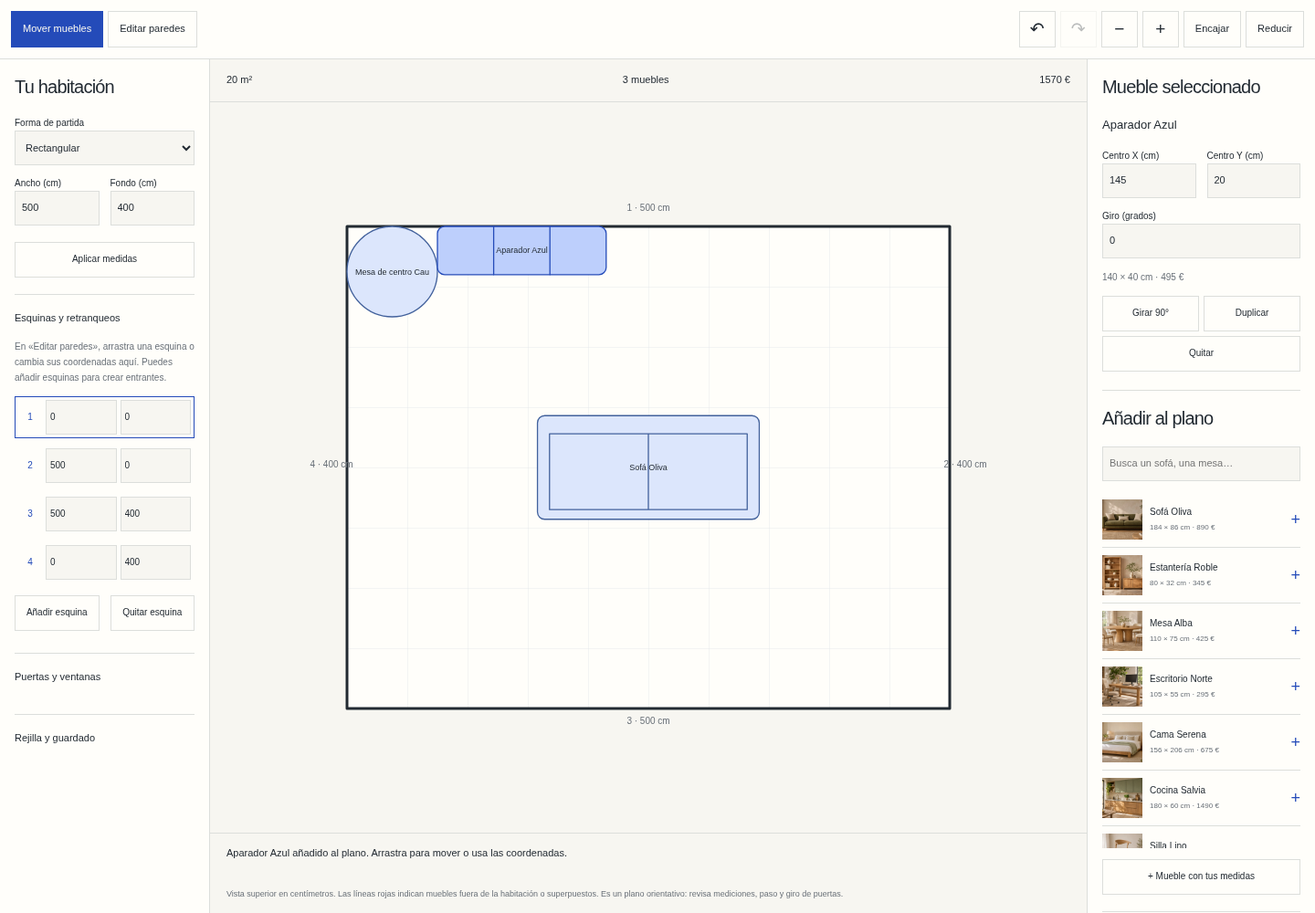
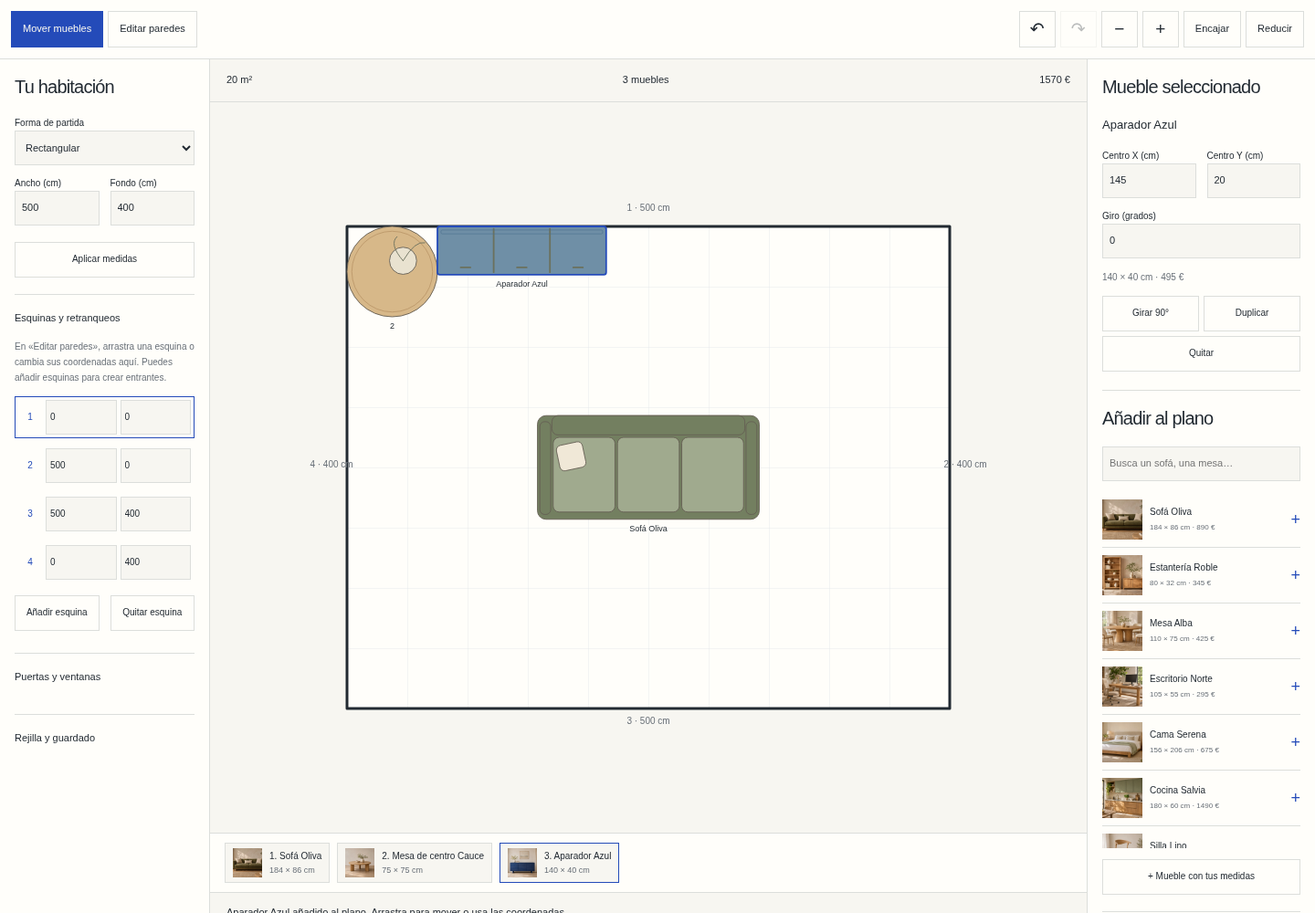
Present corporate farm experiences and updated Tinyspace planner

diff --git a/proyectos/estanque-azul.html b/proyectos/estanque-azul.html
@@ -1,27 +1,27 @@
 <!doctype html>
 <html lang="es">
-<head><meta charset="utf-8"><meta name="viewport" content="width=device-width, initial-scale=1"><meta name="theme-color" content="#f5f6f1"><meta name="color-scheme" content="light dark"><title>El Estanque Azul · Rediseño web | NMC Labs</title><link rel="icon" href="favicon2.png"><link rel="stylesheet" href="../estilos.css"><script src="../portfolio.js" defer></script>  <meta name="description" content="El rediseño de El Estanque Azul: de una primera web de HTML y CSS en 2021 a una granja ficticia con diseño adaptable y planificación de visitas en 2026.">
+<head><meta charset="utf-8"><meta name="viewport" content="width=device-width, initial-scale=1"><meta name="theme-color" content="#f5f6f1"><meta name="color-scheme" content="light dark"><title>El Estanque Azul · Rediseño web | NMC Labs</title><link rel="icon" href="favicon2.png"><link rel="stylesheet" href="../estilos.css"><script src="../portfolio.js" defer></script>  <meta name="description" content="El rediseño de El Estanque Azul: de una primera web de HTML y CSS en 2021 a una experiencia para configurar jornadas de empresa, actividades y presupuesto demo en una granja en 2026.">
   <meta name="robots" content="index, follow, max-image-preview:large">
   <meta name="twitter:card" content="summary_large_image">
   <meta name="twitter:title" content="El Estanque Azul · Rediseño web | NMC Labs">
-  <meta name="twitter:description" content="El rediseño de El Estanque Azul: de una primera web de HTML y CSS en 2021 a una granja ficticia con diseño adaptable y planificación de visitas en 2026.">
+  <meta name="twitter:description" content="El rediseño de El Estanque Azul: de una primera web de HTML y CSS en 2021 a una experiencia para configurar jornadas de empresa, actividades y presupuesto demo en una granja en 2026.">
   <meta name="twitter:image" content="https://nmclabs.dev/proyectos/estanque-azul-cover.webp">
   <meta property="og:type" content="website">
   <meta property="og:locale" content="es_ES">
   <meta property="og:site_name" content="NMC Labs">
   <meta property="og:title" content="El Estanque Azul · Rediseño web | NMC Labs">
-  <meta property="og:description" content="El rediseño de El Estanque Azul: de una primera web de HTML y CSS en 2021 a una granja ficticia con diseño adaptable y planificación de visitas en 2026.">
+  <meta property="og:description" content="El rediseño de El Estanque Azul: de una primera web de HTML y CSS en 2021 a una experiencia para configurar jornadas de empresa, actividades y presupuesto demo en una granja en 2026.">
   <meta property="og:url" content="https://nmclabs.dev/proyectos/estanque-azul">
   <meta property="og:image" content="https://nmclabs.dev/proyectos/estanque-azul-cover.webp">
   <meta property="og:image:alt" content="Presentación de NMC Labs">
   <link rel="canonical" href="https://nmclabs.dev/proyectos/estanque-azul">
-  <script id="site-schema" type="application/ld+json">{"@context":"https://schema.org","@type":"CreativeWork","name":"El Estanque Azul: rediseño web","url":"https://nmclabs.dev/proyectos/estanque-azul","description":"El rediseño de El Estanque Azul: de una primera web de HTML y CSS en 2021 a una granja ficticia con diseño adaptable y planificación de visitas en 2026.","inLanguage":"es","creator":{"@id":"https://nmclabs.dev/#organization"}}</script>
+  <script id="site-schema" type="application/ld+json">{"@context":"https://schema.org","@type":"CreativeWork","name":"El Estanque Azul: rediseño web","url":"https://nmclabs.dev/proyectos/estanque-azul","description":"El rediseño de El Estanque Azul: de una primera web de HTML y CSS en 2021 a una experiencia para configurar jornadas de empresa, actividades y presupuesto demo en una granja en 2026.","inLanguage":"es","creator":{"@id":"https://nmclabs.dev/#organization"}}</script>
 </head>
 <body id="inicio"><a class="skip-link" href="#contenido">Saltar al contenido</a><header class="header wrap"><a class="brand" href="../index.html" aria-label="NMC Labs, volver a los proyectos"><img src="favicon2.png" width="38" height="38" alt=""><span>NMC Labs<span class="brand-dot">.</span></span></a><nav aria-label="Navegación principal"><a href="../index.html#proyectos">Proyectos</a><a href="../index.html#sobre-mi">Sobre mí</a><a href="../index.html#contacto">Contacto ↗</a></nav></header>
-<main id="contenido" class="case-main wrap"><p class="eyebrow">EL ESTANQUE AZUL / 2021 → 2026</p><h1>Mi primera web.<br>Una <em>nueva mirada.</em></h1><p class="case-lead">Una granja ficticia fue mi punto de partida para aprender HTML y CSS. En esta nueva versión revisito el proyecto para mejorar cómo se presenta la granja y cómo se imagina una visita.</p><dl class="case-meta"><div><dt>ORIGEN</dt><dd>Primera evaluación de ASIR · 2021</dd></div><div><dt>REINTERPRETACIÓN</dt><dd>NMC Labs · 2026</dd></div><div><dt>MI TRABAJO</dt><dd>Concepto, diseño y desarrollo</dd></div><div><dt>TECNOLOGÍAS</dt><dd>HTML · CSS · JavaScript</dd></div></dl>
+<main id="contenido" class="case-main wrap"><p class="eyebrow">EL ESTANQUE AZUL / 2021 → 2026</p><h1>Mi primera web.<br>Una <em>nueva mirada.</em></h1><p class="case-lead">Una granja ficticia fue mi punto de partida para aprender HTML y CSS. En esta nueva versión revisito el proyecto como una granja para jornadas de equipo, con propuestas propias para colegios y familias.</p><dl class="case-meta"><div><dt>ORIGEN</dt><dd>Primera evaluación de ASIR · 2021</dd></div><div><dt>REINTERPRETACIÓN</dt><dd>NMC Labs · 2026</dd></div><div><dt>MI TRABAJO</dt><dd>Concepto, diseño y desarrollo</dd></div><div><dt>TECNOLOGÍAS</dt><dd>HTML · CSS · JavaScript</dd></div></dl>
 <section class="case-section"><h2>De dónde partía</h2><div><p>En diciembre de 2021 empecé El Estanque Azul como proyecto académico de la primera evaluación de ASIR. La web presentaba una granja imaginaria a través de sus animales, instalaciones y equipo.</p><p>Me permitió practicar la estructura de una página, los estilos y la organización de distintas secciones. Sigue disponible como parte de mis primeras exploraciones web.</p><p>La versión original ha recibido mantenimiento e imágenes nuevas con el tiempo; el año indica el inicio del proyecto, no una copia intacta de la entrega de 2021.</p><a href="https://estanque.nmclabs.dev/" target="_blank" rel="noopener noreferrer">Visitar el proyecto original ↗</a><figure class="case-screenshot"><img src="estanque-original.webp" alt="Vista de la versión anterior: navegación naranja, cabecera de la granja y sección Nuestra granja" width="1280" height="900" loading="lazy"><figcaption>La versión anterior, conservada y mantenida. Proyecto iniciado en 2021.</figcaption></figure></div></section>
-<section class="case-section"><h2>La nueva dirección</h2><div><p>La reinterpretación parte de una pregunta: ¿qué necesitaría alguien para descubrir esta granja e imaginar un día allí?</p><p>La propuesta mantiene el entorno rural y los animales, con una nueva identidad visual en tonos de campo y estanque, tipografía editorial y una navegación que conecta presentación, experiencias y planificación.</p><ul><li><strong>Descubrir la granja.</strong> Un recorrido visual con contenido más ordenado y una presentación propia.</li><li><strong>Elegir una experiencia.</strong> Tres propuestas ilustrativas: en familia, con el colegio o un paseo tranquilo.</li><li><strong>Preparar un plan.</strong> Un itinerario de ejemplo según la actividad, la fecha y el tamaño del grupo.</li><li><strong>Consultar lo práctico.</strong> Preguntas frecuentes sobre qué llevar, cómo acercarse a los animales y el carácter ficticio del lugar.</li></ul></div></section>
-<section class="case-section"><h2>Más que un cambio visual</h2><div><p>La nueva web incorpora imágenes optimizadas en WebP, diseño adaptable, navegación por teclado, formularios etiquetados y foco visible. El contenido principal se puede consultar sin JavaScript; la interacción del planificador se ejecuta en el navegador.</p><p>La demo no pide nombre ni correo, no guarda información y no hace reservas reales. La granja y sus experiencias son ficticias, y las escenas se han generado con IA.</p><p>El objetivo es mostrar cómo ha cambiado mi forma de abordar una web: además de construir páginas, pensar qué necesita encontrar la persona que las visita y facilitarle el siguiente paso.</p></div></section>
+<section class="case-section"><h2>La nueva dirección</h2><div><p>La reinterpretación propone una granja para compartir un día fuera de la oficina: conversar, crear y cuidar a través de actividades de campo.</p><p>La propuesta mantiene el entorno rural y los animales, con una nueva identidad visual en tonos de campo y estanque, tipografía editorial y una navegación que conecta presentación, experiencias y planificación.</p><ul><li><strong>Elegir una intención.</strong> Tres programas de partida para conectar, crear o cuidar.</li><li><strong>Combinar experiencias.</strong> Seis propuestas de huerto, observación de animales, cocina, paseo y taller.</li><li><strong>Diseñar una jornada.</strong> Un configurador con tipo de grupo, participantes, fecha, duración, comida y alternativa bajo cubierta.</li><li><strong>Comprobar el programa.</strong> Horario con bienvenida, actividades, transiciones, descansos y despedida. Las combinaciones que no caben se rechazan.</li><li><strong>Preparar una propuesta.</strong> Presupuesto por persona y actividad, guardado local, descarga e impresión.</li><li><strong>Conocer la granja.</strong> Nueve especies con guía de cuidados y filtros por hábitat; visitas propias para colegios y familias.</li></ul><figure class="case-screenshot"><img src="estanque-redesign.png" alt="El Estanque Azul rediseñado para jornadas de empresa en el campo" width="1440" height="1000" loading="lazy"><figcaption>La nueva dirección: salir de la oficina y diseñar un día para compartir.</figcaption></figure><figure class="case-screenshot"><img src="estanque-configurador.png" alt="Configurador de jornada con actividades, horario y presupuesto demo" width="1440" height="1000" loading="lazy"><figcaption>El programa conecta la elección de actividades con el tiempo disponible y el presupuesto.</figcaption></figure></div></section>
+<section class="case-section"><h2>Más que un cambio visual</h2><div><p>La nueva web incorpora imágenes optimizadas en WebP, diseño adaptable, navegación por teclado, formularios etiquetados y foco visible. El contenido principal se puede consultar sin JavaScript; la interacción del planificador se ejecuta en el navegador.</p><p>La demo no pide nombre ni correo. Guarda el programa solo en el navegador y no hace reservas, cobros ni solicitudes a terceros. La granja y sus experiencias son ficticias, y las escenas se han generado con IA.</p><p>El objetivo es mostrar cómo ha cambiado mi forma de abordar una web: además de construir páginas, pensar qué necesita encontrar la persona que las visita y facilitarle el siguiente paso.</p></div></section>
 <section class="case-section"><h2>Dos etapas del mismo proyecto</h2><div><p>El original sigue en su dirección y repositorio. La nueva versión tiene su propio repositorio privado y se publica de forma independiente en granja.nmclabs.dev, con alojamiento en Netlify.</p><p><a href="https://granja.nmclabs.dev/" target="_blank" rel="noopener noreferrer">Explorar la nueva versión ↗</a></p></div></section><a class="button" href="../index.html#proyectos">Volver a los proyectos <span aria-hidden="true">↗</span></a></main>
 <footer class="nmc-footer wrap"><a class="brand" href="../index.html" aria-label="NMC Labs, inicio"><img src="favicon2.png" width="28" height="28" alt=""><span>NMC Labs<span class="brand-dot">.</span></span></a><span class="nmc-footer__credit">© <span data-year>2026</span></span><nav class="nmc-footer__nav" aria-label="Enlaces de NMC Labs"><a href="https://github.com/nelmarcoss" target="_blank" rel="noopener noreferrer">GitHub<span class="sr-only"> (pestaña nueva)</span></a><a href="https://www.linkedin.com/in/nelmarcos/" target="_blank" rel="noopener noreferrer">LinkedIn<span class="sr-only"> (pestaña nueva)</span></a><a href="../index.html#contacto">Contacto</a></nav></footer></body>
 </html>

diff --git a/index.html b/index.html
@@ -56,7 +56,7 @@
       <div class="project-grid">
         <article class="project-card"><a class="project-image" href="https://skullscape.nmclabs.dev" target="_blank" rel="noopener noreferrer" aria-label="Visitar SkullScape (pestaña nueva)"><img src="proyectos/skullscape-cover.webp" alt="Imagen generada de un hombre con auriculares" width="1000" height="667" loading="lazy" decoding="async"><span class="image-arrow" aria-hidden="true"><svg class="icon-arrow" viewBox="0 0 24 24" fill="none" aria-hidden="true"><path d="m6 18 12-12M6 6h12v12" stroke="currentColor" stroke-width="1.7" stroke-linecap="round" stroke-linejoin="round"/></svg></span></a><div class="card-heading"><h3>SkullScape.</h3><time datetime="2023">2023</time></div><p>Una tienda de auriculares como ejercicio de diseño y maquetación web.</p><div class="card-links"><a href="https://skullscape.nmclabs.dev" target="_blank" rel="noopener noreferrer">Ver original <span aria-hidden="true"><svg class="icon-arrow" viewBox="0 0 24 24" fill="none" aria-hidden="true"><path d="m6 18 12-12M6 6h12v12" stroke="currentColor" stroke-width="1.7" stroke-linecap="round" stroke-linejoin="round"/></svg></span><span class="sr-only"> SkullScape (pestaña nueva)</span></a></div><details class="project-context archive-context"><summary>Sobre este proyecto</summary><div><p>Un ejercicio personal de diseño y maquetación de una marca ficticia de auriculares, iniciado en septiembre de 2023.</p></div></details></article>
         <article class="project-card"><a class="project-image" href="https://tinyspace.nmclabs.dev" target="_blank" rel="noopener noreferrer" aria-label="Visitar tinyspace (pestaña nueva)"><img src="proyectos/tinyspace-cover.webp" alt="Interior contemporáneo con mobiliario de madera, generado con IA" width="1000" height="667" loading="lazy" decoding="async"><span class="image-arrow" aria-hidden="true"><svg class="icon-arrow" viewBox="0 0 24 24" fill="none" aria-hidden="true"><path d="m6 18 12-12M6 6h12v12" stroke="currentColor" stroke-width="1.7" stroke-linecap="round" stroke-linejoin="round"/></svg></span></a><div class="card-heading"><h3>tinyspace.</h3><time datetime="2022">2022</time></div><p>Un concepto de web de mobiliario, con el espacio y la sencillez como protagonistas.</p><div class="card-links"><a href="https://tinyspace.nmclabs.dev" target="_blank" rel="noopener noreferrer">Ver original <span aria-hidden="true"><svg class="icon-arrow" viewBox="0 0 24 24" fill="none" aria-hidden="true"><path d="m6 18 12-12M6 6h12v12" stroke="currentColor" stroke-width="1.7" stroke-linecap="round" stroke-linejoin="round"/></svg></span><span class="sr-only"> tinyspace (pestaña nueva)</span></a></div><details class="project-context archive-context"><summary>Sobre este proyecto</summary><div><p>Un proyecto de catálogo de mobiliario iniciado en mayo de 2022, con la composición, las imágenes y el espacio como hilo conductor.</p></div></details><div class="project-evolution"><p class="eyebrow">REIMAGINADO EN NMC LABS · <time datetime="2026">2026</time></p><h4>Muebles y plano a medida.</h4><p>Una tienda demo de 30 productos, con plano editable para distribuir muebles y proyectos para empresas.</p><a href="proyectos/tinyspace.html">Ver la evolución <span aria-hidden="true"><svg class="icon-arrow" viewBox="0 0 24 24" fill="none" aria-hidden="true"><path d="m6 18 12-12M6 6h12v12" stroke="currentColor" stroke-width="1.7" stroke-linecap="round" stroke-linejoin="round"/></svg></span></a><a href="https://tiny.nmclabs.dev/" target="_blank" rel="noopener noreferrer">Explorar nueva versión <span aria-hidden="true"><svg class="icon-arrow" viewBox="0 0 24 24" fill="none" aria-hidden="true"><path d="m6 18 12-12M6 6h12v12" stroke="currentColor" stroke-width="1.7" stroke-linecap="round" stroke-linejoin="round"/></svg></span></a></div></article>
-        <article class="project-card"><a class="project-image" href="https://estanque.nmclabs.dev" target="_blank" rel="noopener noreferrer" aria-label="Visitar El Estanque Azul (pestaña nueva)"><img src="proyectos/estanque-azul-cover.webp" alt="Paisaje de granja generado con IA" width="1000" height="667" loading="lazy" decoding="async"><span class="image-arrow" aria-hidden="true"><svg class="icon-arrow" viewBox="0 0 24 24" fill="none" aria-hidden="true"><path d="m6 18 12-12M6 6h12v12" stroke="currentColor" stroke-width="1.7" stroke-linecap="round" stroke-linejoin="round"/></svg></span></a><div class="card-heading"><h3>El Estanque Azul</h3><time datetime="2021">2021</time></div><p>Mi primer proyecto web: una página dedicada a una granja y su entorno.</p><div class="card-links"><a href="https://estanque.nmclabs.dev" target="_blank" rel="noopener noreferrer">Ver original <span aria-hidden="true"><svg class="icon-arrow" viewBox="0 0 24 24" fill="none" aria-hidden="true"><path d="m6 18 12-12M6 6h12v12" stroke="currentColor" stroke-width="1.7" stroke-linecap="round" stroke-linejoin="round"/></svg></span><span class="sr-only"> El Estanque Azul (pestaña nueva)</span></a></div><div class="project-evolution"><p class="eyebrow">REIMAGINADO EN NMC LABS · 2026</p><h4>Mi primera web, una nueva mirada.</h4><p>Del ejercicio de HTML y CSS a una experiencia para descubrir la granja e imaginar una visita.</p><a href="proyectos/estanque-azul.html">Ver la evolución <span aria-hidden="true"><svg class="icon-arrow" viewBox="0 0 24 24" fill="none" aria-hidden="true"><path d="m6 18 12-12M6 6h12v12" stroke="currentColor" stroke-width="1.7" stroke-linecap="round" stroke-linejoin="round"/></svg></span></a><a href="https://granja.nmclabs.dev/" target="_blank" rel="noopener noreferrer">Explorar nueva versión <span aria-hidden="true"><svg class="icon-arrow" viewBox="0 0 24 24" fill="none" aria-hidden="true"><path d="m6 18 12-12M6 6h12v12" stroke="currentColor" stroke-width="1.7" stroke-linecap="round" stroke-linejoin="round"/></svg></span></a></div></article>
+        <article class="project-card"><a class="project-image" href="https://estanque.nmclabs.dev" target="_blank" rel="noopener noreferrer" aria-label="Visitar El Estanque Azul (pestaña nueva)"><img src="proyectos/estanque-azul-cover.webp" alt="Paisaje de granja generado con IA" width="1000" height="667" loading="lazy" decoding="async"><span class="image-arrow" aria-hidden="true"><svg class="icon-arrow" viewBox="0 0 24 24" fill="none" aria-hidden="true"><path d="m6 18 12-12M6 6h12v12" stroke="currentColor" stroke-width="1.7" stroke-linecap="round" stroke-linejoin="round"/></svg></span></a><div class="card-heading"><h3>El Estanque Azul</h3><time datetime="2021">2021</time></div><p>Mi primer proyecto web: una página dedicada a una granja y su entorno.</p><div class="card-links"><a href="https://estanque.nmclabs.dev" target="_blank" rel="noopener noreferrer">Ver original <span aria-hidden="true"><svg class="icon-arrow" viewBox="0 0 24 24" fill="none" aria-hidden="true"><path d="m6 18 12-12M6 6h12v12" stroke="currentColor" stroke-width="1.7" stroke-linecap="round" stroke-linejoin="round"/></svg></span><span class="sr-only"> El Estanque Azul (pestaña nueva)</span></a></div><div class="project-evolution"><p class="eyebrow">REIMAGINADO EN NMC LABS · 2026</p><h4>Un día distinto para el equipo.</h4><p>Una granja para jornadas de empresa, con experiencias, programa a medida y presupuesto de demostración.</p><a href="proyectos/estanque-azul.html">Ver la evolución <span aria-hidden="true"><svg class="icon-arrow" viewBox="0 0 24 24" fill="none" aria-hidden="true"><path d="m6 18 12-12M6 6h12v12" stroke="currentColor" stroke-width="1.7" stroke-linecap="round" stroke-linejoin="round"/></svg></span></a><a href="https://granja.nmclabs.dev/" target="_blank" rel="noopener noreferrer">Explorar nueva versión <span aria-hidden="true"><svg class="icon-arrow" viewBox="0 0 24 24" fill="none" aria-hidden="true"><path d="m6 18 12-12M6 6h12v12" stroke="currentColor" stroke-width="1.7" stroke-linecap="round" stroke-linejoin="round"/></svg></span></a></div></article>
       </div>
     </section>
     <section class="about wrap" id="sobre-mi" aria-labelledby="sobre-mi-titulo"><p class="eyebrow">UN POCO SOBRE MÍ</p><div class="about-grid"><h2 id="sobre-mi-titulo">La curiosidad,<br>puesta en práctica.</h2><div><p>Soy Nel, técnico de sistemas y la persona detrás de NMC Labs. Me gusta entender cómo funcionan las cosas. Aquí comparto lo que voy construyendo: desde mis primeras webs hasta aplicaciones que nacen de una necesidad real.</p><p>Este es mi espacio para probar, aprender y dar forma a nuevas ideas. La tecnología cambia; las ganas de crear algo útil, siguen.</p><ul class="tags" aria-label="Áreas de interés"><li>Sistemas</li><li>Desarrollo web</li><li>Automatización</li><li>Inteligencia artificial</li></ul></div></div></section>

diff --git a/proyectos/tinyspace.html b/proyectos/tinyspace.html
@@ -4,8 +4,8 @@
 <main id="contenido" class="case-main wrap"><p class="eyebrow">TINYSPACE / 2022 → 2026</p><h1>El espacio importa.<br>La experiencia, <em>también.</em></h1><p class="case-lead">Tinyspace nació como un ejercicio de HTML y CSS. En esta nueva versión, la colección de mobiliario sirve para explorar una pregunta más concreta: ¿qué piezas encajan en tu casa y en tu forma de vivir?</p><dl class="case-meta"><div><dt>ORIGEN</dt><dd>Curso de HTML y CSS · Mayo de 2022</dd></div><div><dt>REINTERPRETACIÓN</dt><dd>NMC Labs · 2026</dd></div><div><dt>MI TRABAJO</dt><dd>Concepto, diseño y desarrollo</dd></div><div><dt>TECNOLOGÍAS</dt><dd>HTML · CSS · JavaScript</dd></div></dl>
 <section class="case-section"><h2>El punto de partida.</h2><div><p>En mayo de 2022 empecé Tinyspace como primer proyecto de un curso de HTML y CSS: una mueblería ficticia con catálogo, galería, blog y contacto.</p><p>Fue una forma de practicar composición, imágenes y diseño adaptable. El original sigue disponible y ha recibido mantenimiento; el año indica el comienzo del proyecto.</p><a href="https://tinyspace.nmclabs.dev/" target="_blank" rel="noopener noreferrer">Visitar el original de 2022 ↗</a><figure class="case-screenshot"><img src="tinyspace-original.png" alt="Tinyspace original: marca azul, navegación y fotografía de un salón" width="1440" height="1000" loading="lazy"><figcaption>El proyecto original, iniciado en 2022 y conservado de forma independiente.</figcaption></figure></div></section>
 <section class="case-section"><h2>Una idea más concreta.</h2><div><p>La nueva Tinyspace permite elegir entre 30 productos y comprobar cómo se distribuyen en una habitación propia. La tienda se acompaña de un planificador a escala y una propuesta de servicios para empresas.</p><p>La nueva identidad combina una base cálida, azul profundo y fotografías de interiores. La composición deja espacio al contenido, las medidas y las decisiones de quien recorre la colección.</p><figure class="case-screenshot"><img src="tinyspace-redesign.png" alt="Nueva Tinyspace: tienda de muebles con planificador de habitaciones y propuestas para empresas" width="1440" height="1000" loading="lazy"><figcaption>La reinterpretación de 2026, con nueva dirección visual e imagen principal generada para el proyecto.</figcaption></figure><figure class="case-screenshot"><img src="tinyspace-planner.png" alt="Planificador 2D con muebles a escala, paredes y controles de medidas" width="1440" height="1000" loading="lazy"><figcaption>El plano editable permite comprobar la distribución antes de preparar el carrito.</figcaption></figure></div></section>
-<section class="case-section"><h2>Lo que cambia al usarla.</h2><div><ul><li><strong>Encontrar una pieza.</strong> Treinta productos con búsqueda, filtros de uso, medidas y precio, y fichas detalladas.</li><li><strong>Dibujar la habitación.</strong> Medidas en centímetros, esquinas editables, entrantes, chaflanes, puertas y ventanas.</li><li><strong>Probar distribuciones.</strong> Muebles a escala que se pueden mover, girar y duplicar; piezas con medidas propias, avisos de solapes y zoom táctil.</li><li><strong>Conservar el plano.</strong> Deshacer, rehacer, guardado local y descarga de JSON editable o imagen SVG.</li><li><strong>Simular la compra.</strong> Carrito con cantidades y presupuesto, traslado desde el plano y confirmación de demostración sin cargos.</li><li><strong>Preparar un proyecto profesional.</strong> Servicios para oficinas, recepciones y alojamientos con briefing local descargable.</li></ul><p>La colección es ficticia: precios, materiales y dimensiones son ilustrativos. Las compras y las solicitudes de proyecto son simuladas; no generan pagos ni pedidos. Las escenas se han generado con IA.</p></div></section>
-<section class="case-section"><h2>Una base cuidada.</h2><div><p>La web adapta el tema al sistema, admite navegación por teclado y reduce las animaciones cuando el visitante lo solicita. El catálogo principal se puede consultar sin JavaScript; el editor y las simulaciones usan JavaScript local.</p><p>Las fotografías están optimizadas en WebP y la publicación incorpora títulos descriptivos, canónicas, sitemap y datos estructurados. El código del rediseño se mantiene en un repositorio privado.</p><p>Es una experiencia que puedo enseñar y probar: desde dibujar una habitación hasta preparar un carrito, con un alcance claro y sin pedir datos personales.</p></div></section>
+<section class="case-section"><h2>Lo que cambia al usarla.</h2><div><ul><li><strong>Encontrar una pieza.</strong> Treinta productos con búsqueda, filtros de uso, medidas y precio, y fichas detalladas.</li><li><strong>Dibujar la habitación.</strong> Medidas en centímetros, esquinas editables, entrantes, chaflanes, puertas y ventanas.</li><li><strong>Probar distribuciones.</strong> Muebles dibujados con materiales y detalles reconocibles, miniaturas y nombres, que se pueden mover, girar y duplicar; piezas con medidas propias, avisos de solapes y zoom táctil.</li><li><strong>Conservar el plano.</strong> Deshacer, rehacer, guardado local y descarga de JSON editable o imagen SVG.</li><li><strong>Simular la compra.</strong> Carrito con cantidades y presupuesto, traslado desde el plano y confirmación de demostración sin cargos.</li><li><strong>Preparar un proyecto profesional.</strong> Servicios para oficinas, recepciones y alojamientos con briefing local descargable.</li></ul><p>La colección es ficticia: precios, materiales y dimensiones son ilustrativos. Las compras y las solicitudes de proyecto son simuladas; no generan pagos ni pedidos. Las escenas se han generado con IA.</p></div></section>
+<section class="case-section"><h2>Una base cuidada.</h2><div><p>La web adapta el tema al sistema, admite navegación por teclado y reduce las animaciones cuando el visitante lo solicita. El catálogo principal se puede consultar sin JavaScript; el editor y las simulaciones usan JavaScript local.</p><p>Las fotografías están optimizadas en WebP y la publicación incorpora títulos descriptivos, canónicas, sitemap y datos estructurados, además de treinta fichas de producto con URL propia. El código del rediseño se mantiene en un repositorio privado.</p><p>Es una experiencia que puedo enseñar y probar: desde dibujar una habitación hasta preparar un carrito, con un alcance claro y sin pedir datos personales.</p></div></section>
 <section class="case-section"><h2>Dos etapas, dos versiones.</h2><div><p>El original conserva su dirección e historia. La nueva Tinyspace se publica de forma independiente en tiny.nmclabs.dev.</p><p><a href="https://tiny.nmclabs.dev/" target="_blank" rel="noopener noreferrer">Explorar la nueva Tinyspace ↗</a></p><a href="https://tiny.nmclabs.dev/proyecto/" target="_blank" rel="noopener noreferrer">Conocer el contexto del rediseño ↗</a></div></section><a class="button" href="../index.html#proyectos">Volver a los proyectos <span aria-hidden="true">↗</span></a></main>
 <footer class="nmc-footer wrap"><a class="brand" href="../index.html" aria-label="NMC Labs, inicio"><img src="favicon2.png" width="28" height="28" alt=""><span>NMC Labs<span class="brand-dot">.</span></span></a><span class="nmc-footer__credit">© <span data-year>2026</span></span><nav class="nmc-footer__nav" aria-label="Enlaces de NMC Labs"><a href="https://github.com/nelmarcoss" target="_blank" rel="noopener noreferrer">GitHub<span class="sr-only"> (pestaña nueva)</span></a><a href="https://www.linkedin.com/in/nelmarcos/" target="_blank" rel="noopener noreferrer">LinkedIn<span class="sr-only"> (pestaña nueva)</span></a><a href="../index.html#contacto">Contacto</a></nav></footer></body>
 </html>

diff --git a/docs/seo.md b/docs/seo.md
@@ -28,3 +28,5 @@ Revisa después **Indexación → Páginas** y **Rendimiento** para distinguir U
 Usa siempre los dominios de producción en las canónicas y en los enlaces públicos de GitHub y LinkedIn. Al añadir una página pública, incluye solo su URL canónica en el sitemap de su propio dominio. No añadas al sitemap cuentas, enlaces con tokens, demos ni URLs de Netlify o localhost.
 
 Tramo genera HTML de inicio legible sin JavaScript y shells de cuenta/demo con `noindex` en el postbuild. Sus metadatos también se actualizan al navegar dentro de la aplicación. Los scripts JSON-LD de las webs estáticas tienen hashes explícitos en su política CSP.
+
+Tinyspace publica treinta fichas de producto con enlaces HTML rastreables, además de tienda, planificador, empresas y proyecto. El checkout demo queda fuera del índice. El Estanque Azul publica siete páginas: inicio, empresas, experiencias, animales, visitas, configurador y proyecto. Ambas webs generan sus metadatos y hashes CSP en el build; no presentan ofertas o reservas comerciales ficticias en los datos estructurados.
